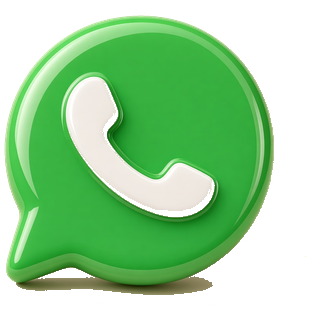
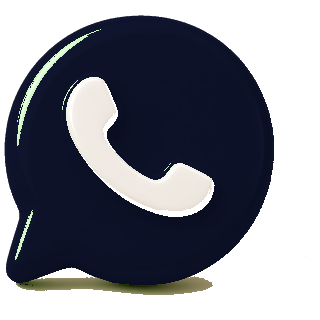
fix: show side objects and navy WhatsApp badge
Pull the neighboring carousel items back into the phone frame and recolor the floating WhatsApp mark to the site navy.

diff --git a/premium_work/components/three/ElementsCarousel.tsx b/premium_work/components/three/ElementsCarousel.tsx
@@ -524,9 +524,9 @@ export default function ElementsCarousel() {
         const phone = camera.aspect < 0.9;
         slotCenter.copy(camera.position).addScaledVector(viewDir, dist);
         wrap.position.copy(slotCenter);
-        wrap.position.addScaledVector(camRight, reach * halfW * (phone ? 1.05 : 0.88));
-        // En el móvil el objeto queda en el centro, lejos de las letras de abajo.
-        wrap.position.addScaledVector(camUp, halfH0 * (phone ? 0.1 : -0.08) - reach * halfH * (phone ? 0.12 : 0.30) + Math.sin(elapsed * 1.3 + i * 0.9) * 0.02 * (fallStart[i] < 0 || elapsed - fallStart[i] > 0.64 ? 1 : 0));
+        wrap.position.addScaledVector(camRight, reach * halfW * (phone ? 0.78 : 0.88));
+        // En el móvil los laterales entran por las esquinas, sin tapar las letras.
+        wrap.position.addScaledVector(camUp, halfH0 * (phone ? 0.06 : -0.08) - reach * halfH * (phone ? 0.26 : 0.30) + Math.sin(elapsed * 1.3 + i * 0.9) * 0.02 * (fallStart[i] < 0 || elapsed - fallStart[i] > 0.64 ? 1 : 0));
 
         // La caída de presentación empieza cuando las cortinas empiezan a abrirse.
         // Si un objeto entra después, cae en ese momento, no espera otro telón.
@@ -554,7 +554,7 @@ export default function ElementsCarousel() {
         const phoneFit = camera.aspect < 0.9;
         const fit = Math.min((viewH * (phoneFit ? 0.3 : 0.56)) / gh, (viewW * (phoneFit ? 0.46 : 0.82)) / gw);
         const boost = isFront ? 1 + 0.14 * hoverT : 1;
-        wrap.scale.setScalar(!inView ? 0.001 : isFront ? fit * boost : fit * (phoneFit ? 0.45 : 0.66));
+        wrap.scale.setScalar(!inView ? 0.001 : isFront ? fit * boost : fit * (phoneFit ? 0.62 : 0.66));
         wrap.visible = inView && i !== hiddenIdxRef.current;
 
         // El mesh clicado se desplaza desde la pose del héroe hasta la del
